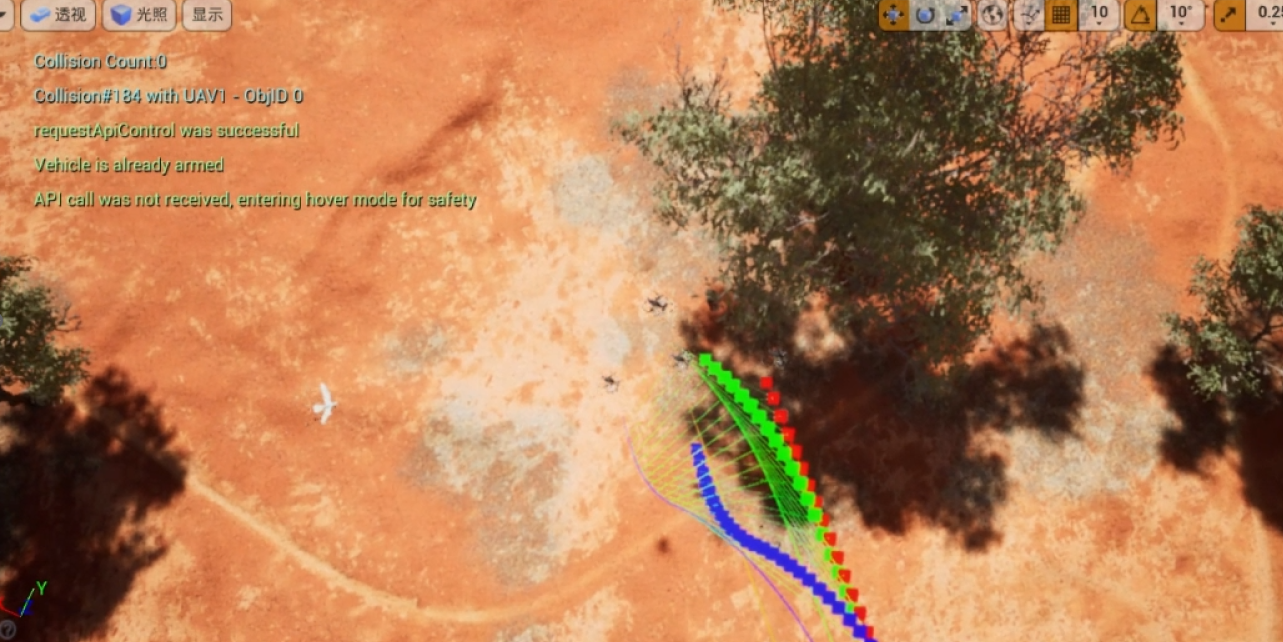
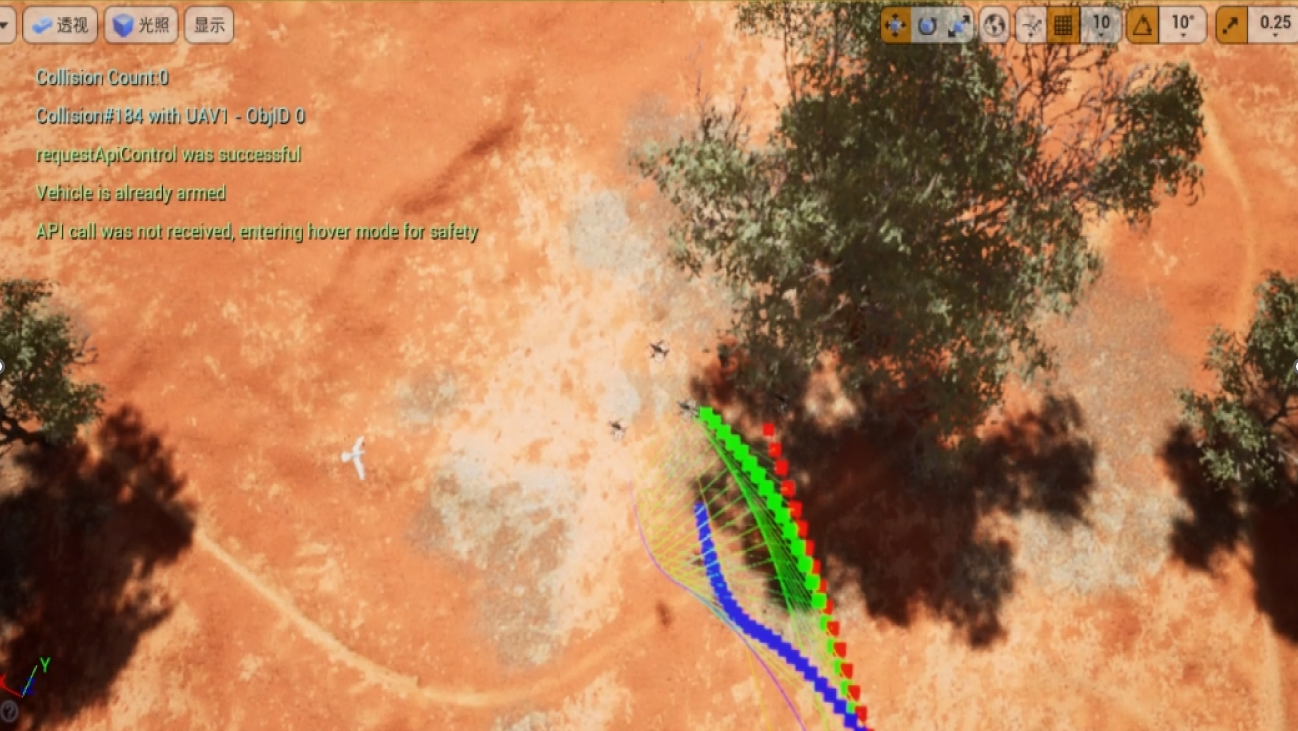
1

diff --git a/styles.css b/styles.css
@@ -1,12 +1,10 @@
 .project-img-fixed {
-    width: 220px;
+    width: 100%;
     height: 140px;
     object-fit: contain;
-    object-position: center;
-    display: block;
-    margin: 0 auto;
     border-radius: 6px;
     border: 1px solid var(--border-color);
+    display: block;
     background: var(--bg-secondary);
 }
 /* Reset and Base Styles */
@@ -627,7 +625,7 @@
     display: inline-flex;
     align-items: center;
     text-decoration: none;
-    color: #dc3545;
+    color: #1e40af;
     font-weight: 600;
     font-size: 0.8em;
     padding: 0.25rem 0.5rem;
@@ -861,10 +859,13 @@
     list-style: none;
     padding-left: 0;
     margin: 0;
+    display: flex;
+    flex-direction: column;
+    gap: 24px;
 }
 
 .project-item {
-    margin-bottom: 16px;
+    margin-bottom: 0;
     padding: 4px 0;
 }
 
@@ -875,8 +876,11 @@
 }
 
 .project-thumb {
-    flex: 0 0 36%;
-    max-width: 360px;
+    flex: 0 0 220px;
+    max-width: 220px;
+    display: flex;
+    align-items: center;
+    justify-content: center;
 }
 
 .project-thumb img {
@@ -885,6 +889,18 @@
     display: block;
     border-radius: 6px;
     border: 1px solid var(--border-color);
+    margin: 0;
+    padding: 0;
+}
+
+/* 微调：将第二个项目的图片向上移动一点点以修正视觉对齐 */
+.project-list > .project-item:nth-child(2) .project-thumb img {
+    transform: translateY(-10px);
+}
+
+/* 微调：将第三个项目的图片向上移动一点点以修正视觉对齐 */
+.project-list > .project-item:nth-child(3) .project-thumb img {
+    transform: translateY(-4px);
 }
 
 .project-info {

diff --git a/index.html b/index.html
@@ -75,7 +75,7 @@
     <div class="container layout-wrapper">
         <aside class="sidebar">
             <div class="profile-avatar">
-                <img src="./images/224.jpg" alt="Haoyun Tang">
+                <img src="./images/头像224.png" alt="Haoyun Tang">
             </div>
             <div class="profile-name">Haoyun Tang</div>
             <div class="profile-subname">唐浩云</div>

diff --git a/crop_project_images.py b/crop_project_images.py
@@ -1,0 +1,35 @@
+import os
+from PIL import Image
+
+src_dir = 'images'
+dst_dir = os.path.join(src_dir, 'cropped')
+os.makedirs(dst_dir, exist_ok=True)
+target_size = (320, 140)
+project_imgs = [
+    '自动驾驶照片0.png',
+    'airsim图片.png',
+    '星际争霸图片.png',
+    '强化学习网站图片.png'
+]
+
+for fname in project_imgs:
+    img_path = os.path.join(src_dir, fname)
+    if not os.path.exists(img_path):
+        print(f'未找到: {fname}')
+        continue
+    img = Image.open(img_path)
+    img = img.convert('RGB')
+    w, h = img.size
+    # 保持内容居中，object-fit: contain风格
+    scale = min(target_size[0]/w, target_size[1]/h)
+    new_w = int(w * scale)
+    new_h = int(h * scale)
+    img_resized = img.resize((new_w, new_h), Image.LANCZOS)
+    bg = Image.new('RGB', target_size, (255,255,255))
+    left = (target_size[0] - new_w) // 2
+    top = (target_size[1] - new_h) // 2
+    bg.paste(img_resized, (left, top))
+    bg.save(os.path.join(dst_dir, fname))
+    print(f'Cropped: {fname}')
+
+print('项目图片裁剪完成，已保存到 images/cropped/')

diff --git a/crop_images.py b/crop_images.py
@@ -1,0 +1,29 @@
+import os
+from PIL import Image
+
+src_dir = 'images'
+dst_dir = os.path.join(src_dir, 'cropped')
+os.makedirs(dst_dir, exist_ok=True)
+target_size = (320, 140)
+
+for fname in os.listdir(src_dir):
+    if fname.lower().endswith(('.png', '.jpg', '.jpeg')):
+        img_path = os.path.join(src_dir, fname)
+        img = Image.open(img_path)
+        img = img.convert('RGB')
+        w, h = img.size
+        # 居中裁剪或加白边
+        if w / h > target_size[0] / target_size[1]:
+            new_h = target_size[1]
+            new_w = int(w * new_h / h)
+        else:
+            new_w = target_size[0]
+            new_h = int(h * new_w / w)
+        img_resized = img.resize((new_w, new_h), Image.LANCZOS)
+        left = (new_w - target_size[0]) // 2
+        top = (new_h - target_size[1]) // 2
+        img_cropped = img_resized.crop((left, top, left + target_size[0], top + target_size[1]))
+        img_cropped.save(os.path.join(dst_dir, fname))
+        print(f'Cropped: {fname}')
+
+print('全部裁剪完成，已保存到 images/cropped/')
